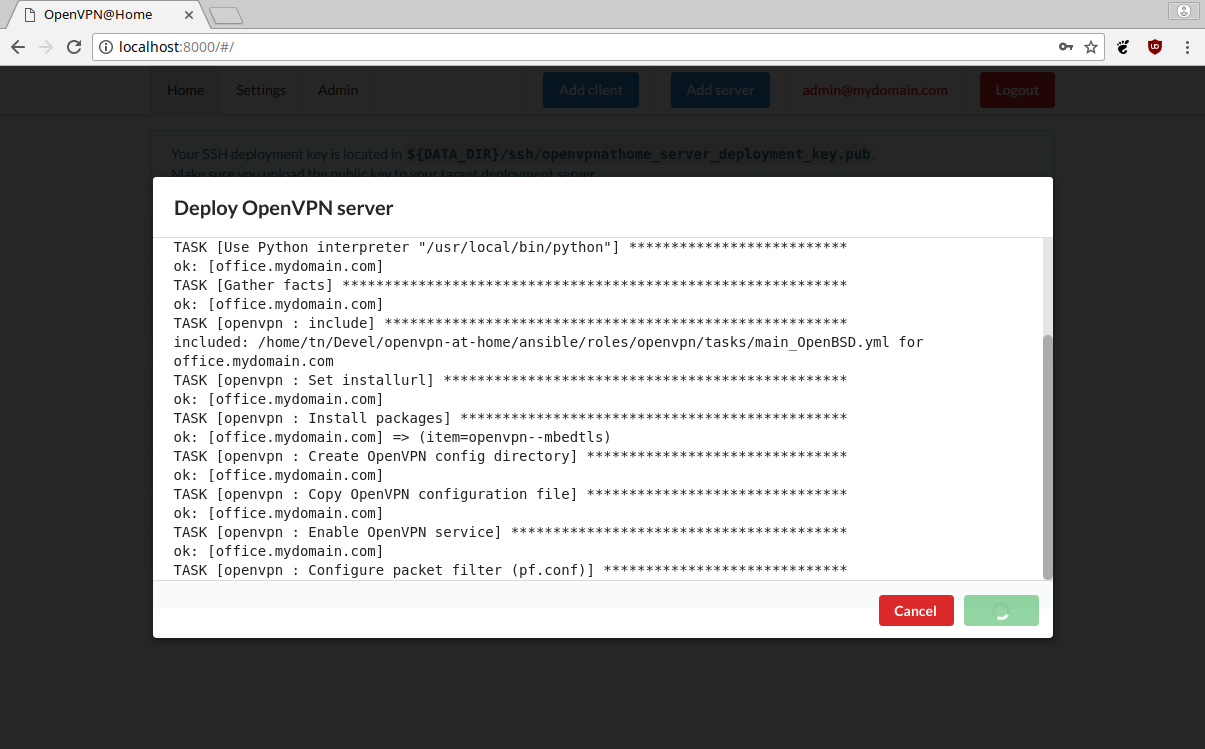
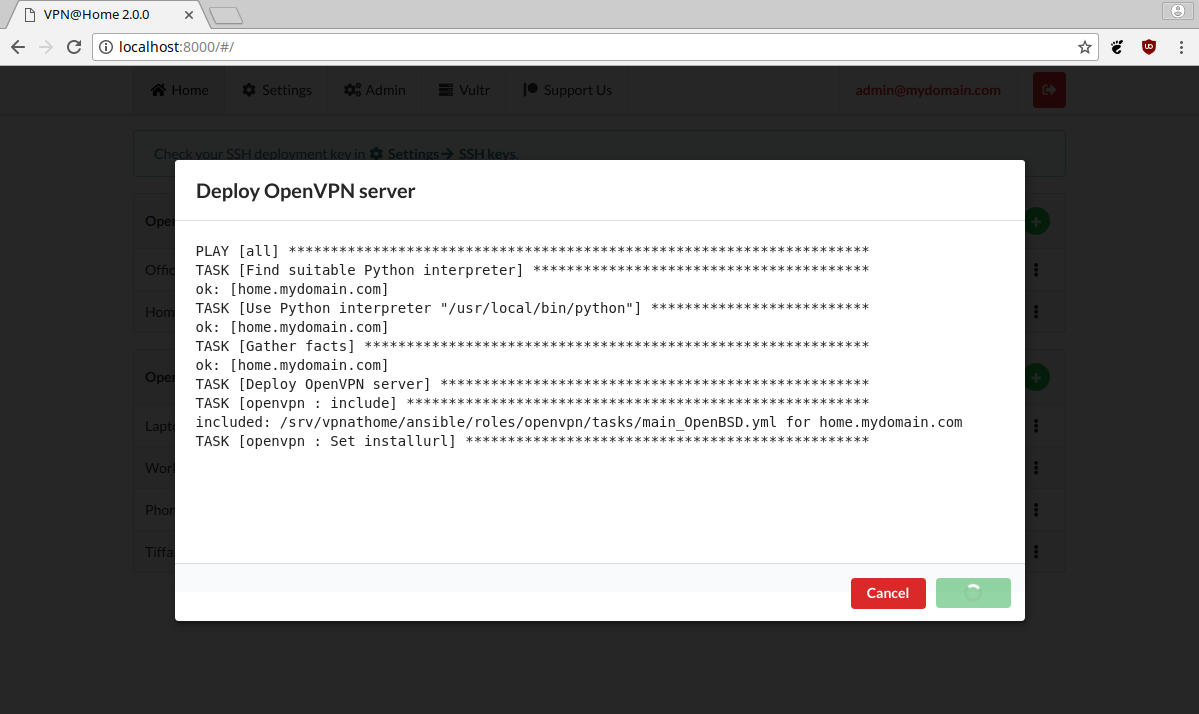
Updated README.rst and screenshots

Changed region(s): [[0.1234, 0.1849, 0.8949, 0.8936], [0.0, 0.0, 1.0, 0.1541], [0.1234, 0.1232, 0.1543, 0.1541]]

diff --git a/README.rst b/README.rst
@@ -15,7 +15,7 @@ VPN@Home
 TL;DR
 =====
 
-1-click, self-hosted OpenVPN deployment to your favorite VPS instance and clients management app.
+1-click deployment of OpenVPN with DNS ad blocking sinkhole. Deploys to your favorite VPS machine.
 Created with **Vue.js**, **Semantic UI** and **Django**. And with love, of course.
 
 .. image:: home.png
@@ -25,6 +25,11 @@ Created with **Vue.js**, **Semantic UI** and **Django**. And with love, of cours
 .. image:: deployment.png
    :width: 512
    :align: center
+
+.. image:: settings.png
+   :width: 512
+   :align: center
+
 
 Feedback and pull requests are welcome.
 
@@ -50,17 +55,14 @@ And that works for me better than "no VPN at all".
 
 Features:
 
-#. users with admin/casual privilege separation
-#. simple user registration
-#. automatic generation of OpenVPN profiles
-#. all crypto stuff is inlined into OpenVPN profiles (single file deployment)
-#. profiles can be sent by e-mail or downloaded as files
-#. Ansible scripts to automatically deploy configured VPN server
-#. 1-click server deployment
-#. DNS cache using Unbound
+#. 1-click deployment of OpenVPN server to your favorite VPS provider
+#. DNS cache and ad blocking for VPN connected clients
+#. OpenVPN clients management
+#. generation of self-contained ovpn profiles for servers and clients
+#. profiles can be sent by e-mail to owner or downloaded as files
 #. tested on Ubuntu 18.04 and OpenBSD 6.4 (Vultr VPS)
 
-That's all folks. No fancy stuff. It's not a toolbox, it's a screwdriver to manage 3-5 home machines (and phones).
+That's all folks.
 
 .. note:: This is a work-in-progress app, hacked together during x-mas break to solve a specific need of mine.
           Feel free to submit PRs with improvements.
@@ -82,8 +84,8 @@ No. Do not use it to do any stupid things.
 **Is the app secure?**
 
 Since the app manages OpenVPN server deployment, it must have root access to the VPN
-machine. There is no separate deployment agent (yet). It is not wise to keep it facing the
-open internet, I guess.
+machine. There is no separate deployment agent (yet), as it would over-complicate things.
+It is not wise to keep it facing the open internet, I guess, so please don't do it.
 
 **So how to host it?**
 
@@ -91,18 +93,24 @@ Preferably on your internal network. Keep the server bound to *localhost* and co
 via SSH tunnel. This way you don't need to configure SSL certificate and a lot of security
 headaches go away.
 
-I personally use it installed on my private laptop, the same way I use CUPS (printer stuff).
+I use it installed on my private laptop, the same way I use CUPS (printer stuff, aka localhost-colon-six-three-one).
 
 **How to change server address after it is created?**
 
 Use Django Admin panel to modify host field and re-deploy. All client configs must be re-deployed too.
+You can try playing with DynDNS to work around it.
 
 **Why Ansible? It's slow and weights 30MB.**
 
 #. It does the job like a champ lifting tons of system complexity
 #. Zero-effort deployment (no master nodes, etc)
 #. Very easy to extend
-#. I'd like to have more complex setup in the future and simply bash won't cut it
+#. I'd like to have more complex setup in the future and bash won't cut it
+
+**Why not language X**?
+
+I believe Python is optimal solution considering platform maturity, libraries quality and
+skills proliferation. There is not much choice for the frontend.
 
 Project structure
 =================
@@ -123,7 +131,7 @@ Installation
 Prerequisites
 -------------
 
-#. Working Node.js installation (tested with 9.2.1 & 9.3.0)
+#. Working Node.js installation (tested with 9.3.0)
 #. Python 3 with virtualenv
 #. GNU Make (or compatible)
 #. Ansible (tested with 2.5.0, but no fancy functionality is used)
@@ -170,7 +178,7 @@ You can launch a container with a helper script:
 
 ...or roll out your own fancy scripts for this. Data will be stored in a volume ``data``.
 
-For production - debian package
+For production - Debian package
 ~~~~~~~~~~~~~~~~~~~~~~~~~~~~~~~
 
 Package deployment is supported on *Ubuntu*. *Debian* should be supported, but I didn't test it there.
@@ -187,18 +195,18 @@ Open ``http://localhost:8000`` and follow on-boarding tutorial.
 
 The package needs virtually zero configuration:
 
-- ``deb`` is self-deployable
+- ``deb`` is self-deployable, as it contains entire virtualenv
 - installs into ``/srv/vpnathome`` (referred to as ``${ROOT}``)
-- Python3 virtual environment, static files, etc are all in the ``deb`` package
 - ``systemd`` service script ``vpnathome.service`` is installed and starts by default
-- ``daphne`` runs on ``http://127.0.0.1:8000``
+- ``daphne`` runs on ``http://127.0.0.1:8000`` - bound to **localhost** only
 - Contains bootstrapping script to automate app configuration (``${ROOT}/bin/bootstrap.sh``)
 
 Building a package will call ``sudo`` and ask you for a password. Root privileges are required
 during Python virtual environment installation step, as we must ``sudo mount -o bind ...`` and
 ``sudo umount ...`` virtualenv destination directory. Why? Unfortunately, Python 3 virtualenv
-relocation is not reliable (and discouraged), so we decided to hack a bit during the build process
-and bootstrap directly into destination directory before packaging.Refer to ``Makefile`` ``install`` target.
+relocation is not reliable (and discouraged), so I decided to hack a bit during the build process
+and bootstrap directly into destination directory before packaging. Refer to ``Makefile`` ``install``
+target for details.
 
 .. note:: If ``make deb`` fails for whatever reason, make sure ``/srv/vpnathome`` is left unmounted.
 
@@ -212,20 +220,23 @@ After a server is configured, you can deploy it using provided **Ansible** scrip
 the target system!
 
 #. required packages will be installed
-#. iptables rules will be altered (using Uncomplicated FireWall - ``UFW``)
-#. IPv4 forwarding will be enabled (using ``sysctl.conf``)
+#. firewall rules will be altered
+#. IPv4 forwarding will be enabled
 
 It is advised to deploy the server on a remote machine, but you can do it on localhost too. I personally test it
-on DigitalOcean's droplet.
+on Vultr VPS.
 
 ::
 
-    # ${ROOT}/bin/deploy_vpn.sh [local|remote]
+    $ ./bin/deploy_vpn.sh --help
+    Usage:
+    ./bin/deploy_vpn.sh [--help|--local|--host HOST]
+    
+    --help  - usage
+    --local - deploy OpenVPN server on the current machine (localhost)
+    --host  - deploy selected OpenVPN server only
 
-Supplying ``local`` will deploy the server on localhost. ``remote`` will try to deploy on a remote machine
-using the address provided during configuration.
-
-.. note:: This feature is work-in-progress.
+If you deploy to a ``HOST``, it must be one of the defined VPN servers.
 
 Configuration
 -------------
@@ -237,6 +248,8 @@ configuration:
 - Admin password is *admin1234*
 - Database is located in ``${PROJECT_ROOT}/data/db/db.sqlite3``
 - Settings have ``development`` flag set to true ``true``
+
+To set new superuser, use ``./bin/manage set_admin <email> <pass>`` command.
 
 App config
 ~~~~~~~~~~
@@ -335,7 +348,8 @@ When development mode is off, frontend resources are taken from ``vpnathome.apps
 Frontend subproject
 -------------------
 
-Frontend sub-project contains **Vue.js** SPA served by **Django**.
+Frontend sub-project contains **Vue.js** SPA served by **Django**. By default **Django** app will serve
+stable, production version of the frontend app directly.
 
 Provided ``Makefile``'s default target displays help:
 
@@ -352,10 +366,20 @@ Provided ``Makefile``'s default target displays help:
      * install     - install packages from package.json
      * distclean   - clean project, delete all data (start from 'git clone' state)
 
-This is pretty self-explanatory too. When developing front-end code, you run **Django** app in development mode,
-and ``make build-devel``.
+To start development of frontend code, you must first switch backend into development mode, by modifying ``data/settings.json``:
 
-**Django** will pick frontend code from ``frontend/dist`` directory.
+::
+
+    {
+        ...
+        "configured": true,
+        "development": true,
+        "debug_toolbar_enabled": true,
+        ...
+
+Don't forget to restart the app. Once development mode is enabled, **Django** will load frontend from ``frontend/dist``
+instead of ``vpnathome.apps.frontend``. You can verify this by inspecting site title - it should say
+*VPN@Home <version> - development*. You can also use **Django Debug Toolbar** to troubleshoot the configuration.
 
 **Django** injects some initial state via ``<script>...</script>`` tag. See ``index.html`` and ``vpnathome.apps.frontent.views`` for
 details.
@@ -370,7 +394,7 @@ Known issues
 
 I left this as the last point, hoping not to scare anybody.
 
- * frontend has 0% test coverage -and many lint issues- :o)
+ * frontend has 0% test coverage :o)
  * security is not a major concern for this app, I'm not running a CA company
  * no real user management - I rely on Django Admin panel for it
  * not tested on Windows, as I don't touch it even with a 10-foot stick, in rubber gloves - patches are welcome, however
